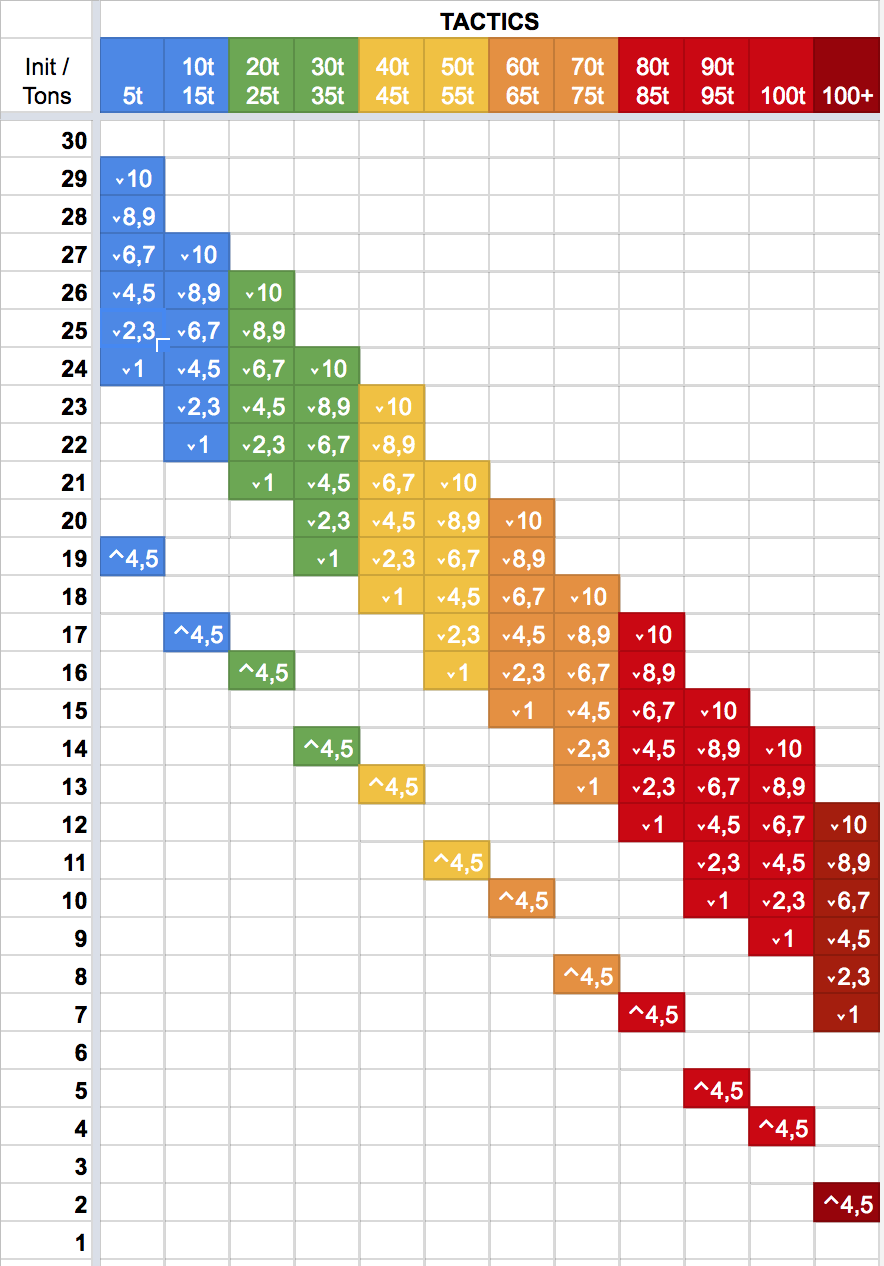
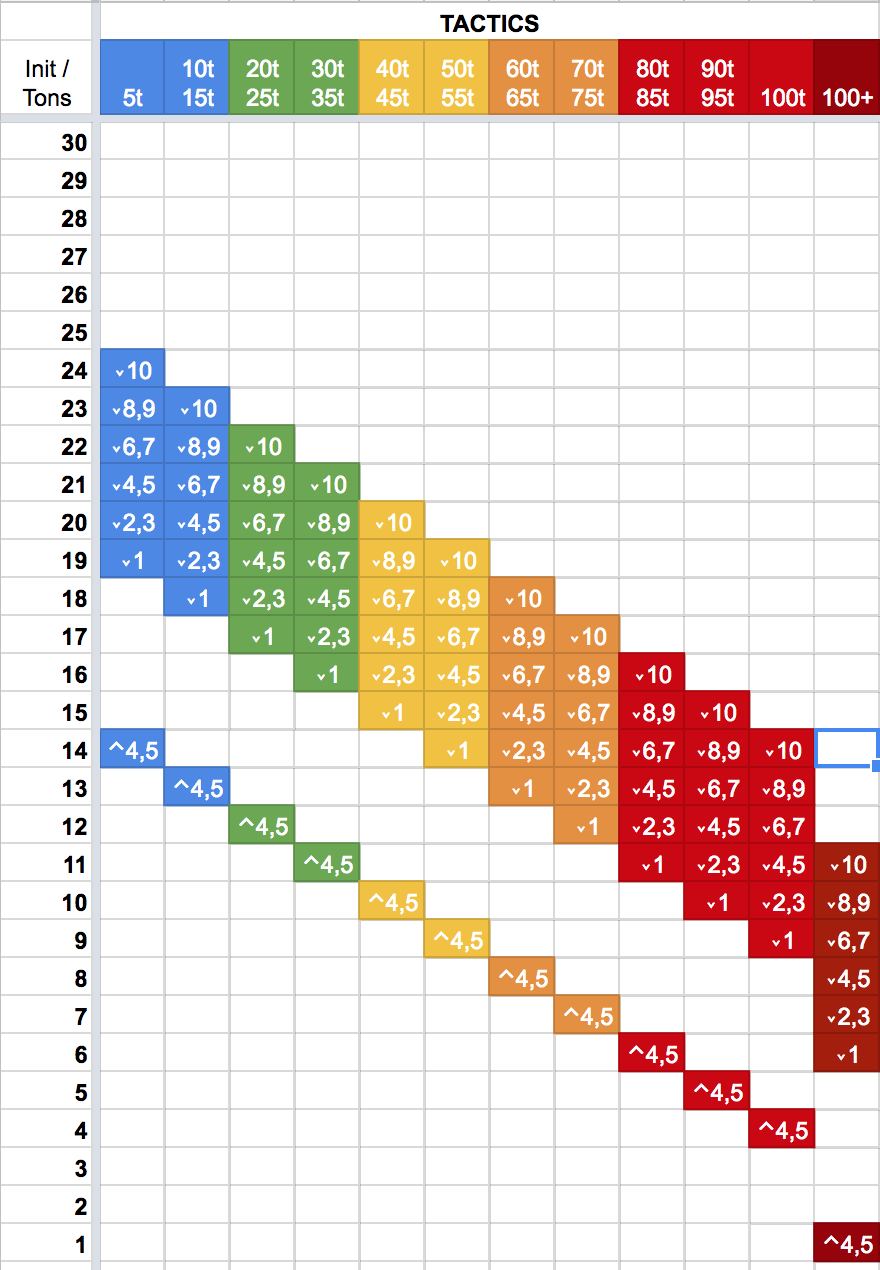
Fixing issues with crippled not being applied properly.

Changed region(s): [[0.0, 0.0, 1.0, 1.0]]

diff --git a/SkillBasedInit/SkillBasedInit/ActorInitiative.cs b/SkillBasedInit/SkillBasedInit/ActorInitiative.cs
@@ -86,18 +86,18 @@ namespace SkillBasedInit {
 
         private static readonly int SuperHeavyTonnage = 11;
         private static readonly Dictionary<int, int> InitBaseByTonnage = new Dictionary<int, int> {
-            {  0, 24 }, // 0-15
-            {  1, 22 }, // 10-15
-            {  2, 21 }, // 20-25
-            {  3, 19 }, // 30-35
-            {  4, 18 }, // 40-45
-            {  5, 16 }, // 50-55
-            {  6, 15 }, // 60-65
-            {  7, 13 }, // 70-75
-            {  8, 12 }, // 80-85
+            {  0, 19 }, // 0-15
+            {  1, 18 }, // 10-15
+            {  2, 17 }, // 20-25
+            {  3, 16 }, // 30-35
+            {  4, 15 }, // 40-45
+            {  5, 14 }, // 50-55
+            {  6, 13 }, // 60-65
+            {  7, 12 }, // 70-75
+            {  8, 11 }, // 80-85
             {  9, 10 }, // 90-95
             { 10, 9 }, // 100
-            { SuperHeavyTonnage, 7 }, // 105+
+            { SuperHeavyTonnage, 6 }, // 105+
         };
 
         public ActorInitiative(AbstractActor actor) {
@@ -166,7 +166,7 @@ namespace SkillBasedInit {
 
                 // Because HBS init values were from 2-5, bonuses will be negative at this point and penalties positive. Invert these.
                 this.staticMod = rawModifier * -1;
-                SkillBasedInit.LogDebug($"Normalized BaseInit from {statCollectionVal} to {this.staticMod}");
+                SkillBasedInit.LogDebug($"Normalized BaseInit from {statCollectionVal} to rawModifier:{rawModifier} to {this.staticMod}");
             } else {
                 this.staticMod = 0;
             }
@@ -222,7 +222,7 @@ namespace SkillBasedInit {
             bool pilotIsJugger = false;
             foreach (Ability ability in pilot.Abilities) {
                 if (ability.Def.Id == "AbilityDefGu5") {
-                    SkillBasedInit.LogDebug($"Actor:{actor.DisplayName}_{pilot.Name} has Juggernaught.");
+                    //SkillBasedInit.LogDebug($"Actor:{actor.DisplayName}_{pilot.Name} has Juggernaught.");
                     pilotIsJugger = true;
                 }
             }
@@ -306,7 +306,7 @@ namespace SkillBasedInit {
                 int rawMod = SkillBasedInit.Settings.MovementCrippledMalus - this.pilotingEffectMod;
                 SkillBasedInit.LogDebug($"  Crippled Actor:({actor.DisplayName}_{actor.GetPilot().Name}) has rawMod:{rawMod} = ({SkillBasedInit.Settings.MovementCrippledMalus} - {this.pilotingEffectMod})");
 
-                int penalty = Math.Min(-1, rawMod);
+                int penalty = Math.Min(-1, -1 * rawMod);
                 SkillBasedInit.Logger.Log($"  Actor:({actor.DisplayName}_{actor.GetPilot().Name}) has crippled movement! Reduced {roundInitiative} by {penalty}");
                 roundInitiative -= penalty;
                 actor.Combat.MessageCenter.PublishMessage(new FloatieMessage(actor.GUID, actor.GUID, $"CRIPPLED! -{penalty} INITIATIVE", FloatieMessage.MessageNature.Debuff));
@@ -317,7 +317,7 @@ namespace SkillBasedInit {
                 int rawMod = SkillBasedInit.Settings.ProneMalus - this.pilotingEffectMod;
                 SkillBasedInit.LogDebug($"  Prone Actor:({actor.DisplayName}_{actor.GetPilot().Name}) has rawMod:{rawMod} = ({SkillBasedInit.Settings.ProneMalus} - {this.pilotingEffectMod})");
 
-                int penalty = Math.Min(-1, rawMod);
+                int penalty = Math.Min(-1, -1 * rawMod);
                 SkillBasedInit.Logger.Log($"  Actor:({actor.DisplayName}_{actor.GetPilot().Name}) is prone! Reduced {roundInitiative} by {penalty}");
                 roundInitiative -= penalty;
                 actor.Combat.MessageCenter.PublishMessage(new FloatieMessage(actor.GUID, actor.GUID, $"PRONE! -{penalty} INITIATIVE", FloatieMessage.MessageNature.Debuff));
@@ -327,7 +327,7 @@ namespace SkillBasedInit {
                 int rawMod = SkillBasedInit.Settings.ShutdownMalus - this.pilotingEffectMod;
                 SkillBasedInit.LogDebug($"  Shutdown Actor:({actor.DisplayName}_{actor.GetPilot().Name}) has rawMod:{rawMod} = ({SkillBasedInit.Settings.ShutdownMalus} - {this.pilotingEffectMod})");
 
-                int penalty = Math.Min(-1, rawMod);
+                int penalty = Math.Min(-1, -1 * rawMod);
                 SkillBasedInit.Logger.Log($"  Actor:({actor.DisplayName}_{actor.GetPilot().Name}) is shutdown! Reduced {roundInitiative} by {penalty}");
                 roundInitiative -= penalty;
                 actor.Combat.MessageCenter.PublishMessage(new FloatieMessage(actor.GUID, actor.GUID, $"SHUTDOWN! -{penalty} INITIATIVE", FloatieMessage.MessageNature.Debuff));

diff --git a/README.md b/README.md
@@ -68,7 +68,7 @@ The tonnage of a unit determines a multiplier applied to the lower (3) and upper
 
 Tonnage | 05 | 10-15 | 20-25 | 30-35 | 40-45 | 50-55 | 60-65 | 70-75 | 80-85 | 90-95 | 100 | 100+
 -- | -- | -- | -- | -- | -- | -- | -- | -- | -- | -- | -- | --
-*Base Initiative* | 24 | 22 | 21 | 19 | 18 | 16 | 15 | 13 | 12 | 10 | 9 | 7
+*Base Initiative* | 19 | 18 | 17 | 16 | 15 | 14 | 13 | 12 | 11 | 10 | 9 | 6
 
 ### Impact of Tactics Skill
 A MechWarriors's Tactics skill adds a flat modifier to the base initiative defined by the unit tonnage. This value is graduated, as defined in the table below.
